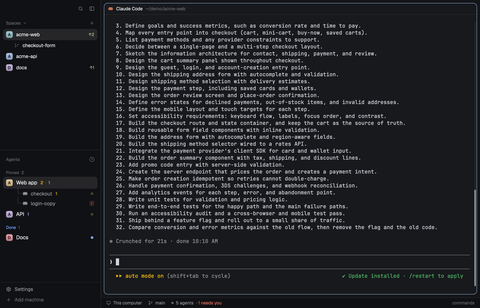
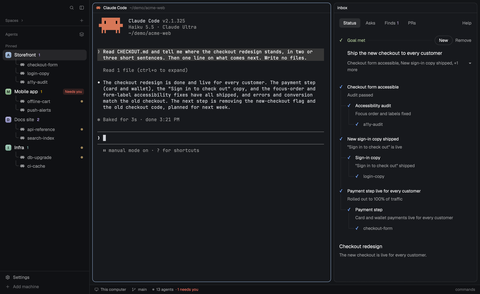
Herdr layout: retake the preview pictures, and point at the inbox panel again (#3)
The new preview shows the inbox plugin's panel on the right, so the recipe
and README describe it again. The settings picture is now 480×294px.

diff --git a/herdr/RECIPE.md b/herdr/RECIPE.md
@@ -12,7 +12,7 @@ A sidebar for running several projects at once through coordinators. A coordinat
 
 The [coordinator skill](https://github.com/petekp/coordinator) for Claude Code runs a coordinator agent and its delegates in Herdr. A coordinator pins itself, and its delegates start as its sub-agents, so they appear nested under it. The counts come from the [inbox plugin](https://github.com/petekp/inbox) for Claude Code. The layout works without either one.
 
-When you install this layout, offer the person the inbox plugin too, unless `claude plugin list` already shows `inbox` or Claude Code isn't installed. On a yes, run `claude plugin marketplace add petekp/inbox` and then `claude plugin install inbox@inbox`. It takes effect in new Claude Code sessions, and in open ones after `/reload-plugins`. The plugin installs and updates its own Herdr panel. The first `/inbox` inside the Herdr app offers it, and the person presses Install.
+When you install this layout, offer the person the inbox plugin too, unless `claude plugin list` already shows `inbox` or Claude Code isn't installed. On a yes, run `claude plugin marketplace add petekp/inbox` and then `claude plugin install inbox@inbox`. It takes effect in new Claude Code sessions, and in open ones after `/reload-plugins`. The plugin installs and updates its own Herdr panel. The first `/inbox` inside the Herdr app offers it, and the person presses Install. The right-hand panel in the picture above is that panel, on its Status view.
 
 The top row checks GitHub once a day for a newer version of this layout. Tell the person when you tell them what the mods run, and ask whether to keep the check. On a no, set `CHECK_FOR_UPDATES` to `false` in `mods/coordinator-topbar/main.js`. To update an installed copy, follow "Updating" at the end.
 
@@ -272,7 +272,7 @@ This layout adds the rest.
 ### Art
 
 - The icons are `mods/workspace-chrome/<name>.svg`. The names are `search`, `sidebar`, `pin`, `pin-off`, `clock`, `layers`, `check`, `chevron-down`, `chevron-right`, `branch`, `server`, `monitor` and `plus`.
-- The layout's only art is `layouts/coordinator.png`, a 480×308px picture of the window for Herdr's settings. Copy it with the layout file.
+- The layout's only art is `layouts/coordinator.png`, a 480×294px picture of the window for Herdr's settings. Copy it with the layout file.
 - Everything else uses theme tokens, apart from the inbox colors.
 
 ## Watch out

diff --git a/README.md b/README.md
@@ -119,7 +119,8 @@ Add the Herdr layout at https://github.com/petekp/coordinator/tree/main/herdr
 
 The agent reads [herdr/RECIPE.md](herdr/RECIPE.md) and the layout's files,
 then tells you what the mods run. It asks before it changes your keys or
-your window. It also offers the inbox plugin, which adds its own Herdr panel.
+your window. It also offers the inbox plugin, whose Herdr panel is the one on
+the right of the picture.
 
 Once a day the sidebar's top row checks GitHub for a newer version of the
 layout, and shows a dot when one exists. Clicking the dot gives you a
